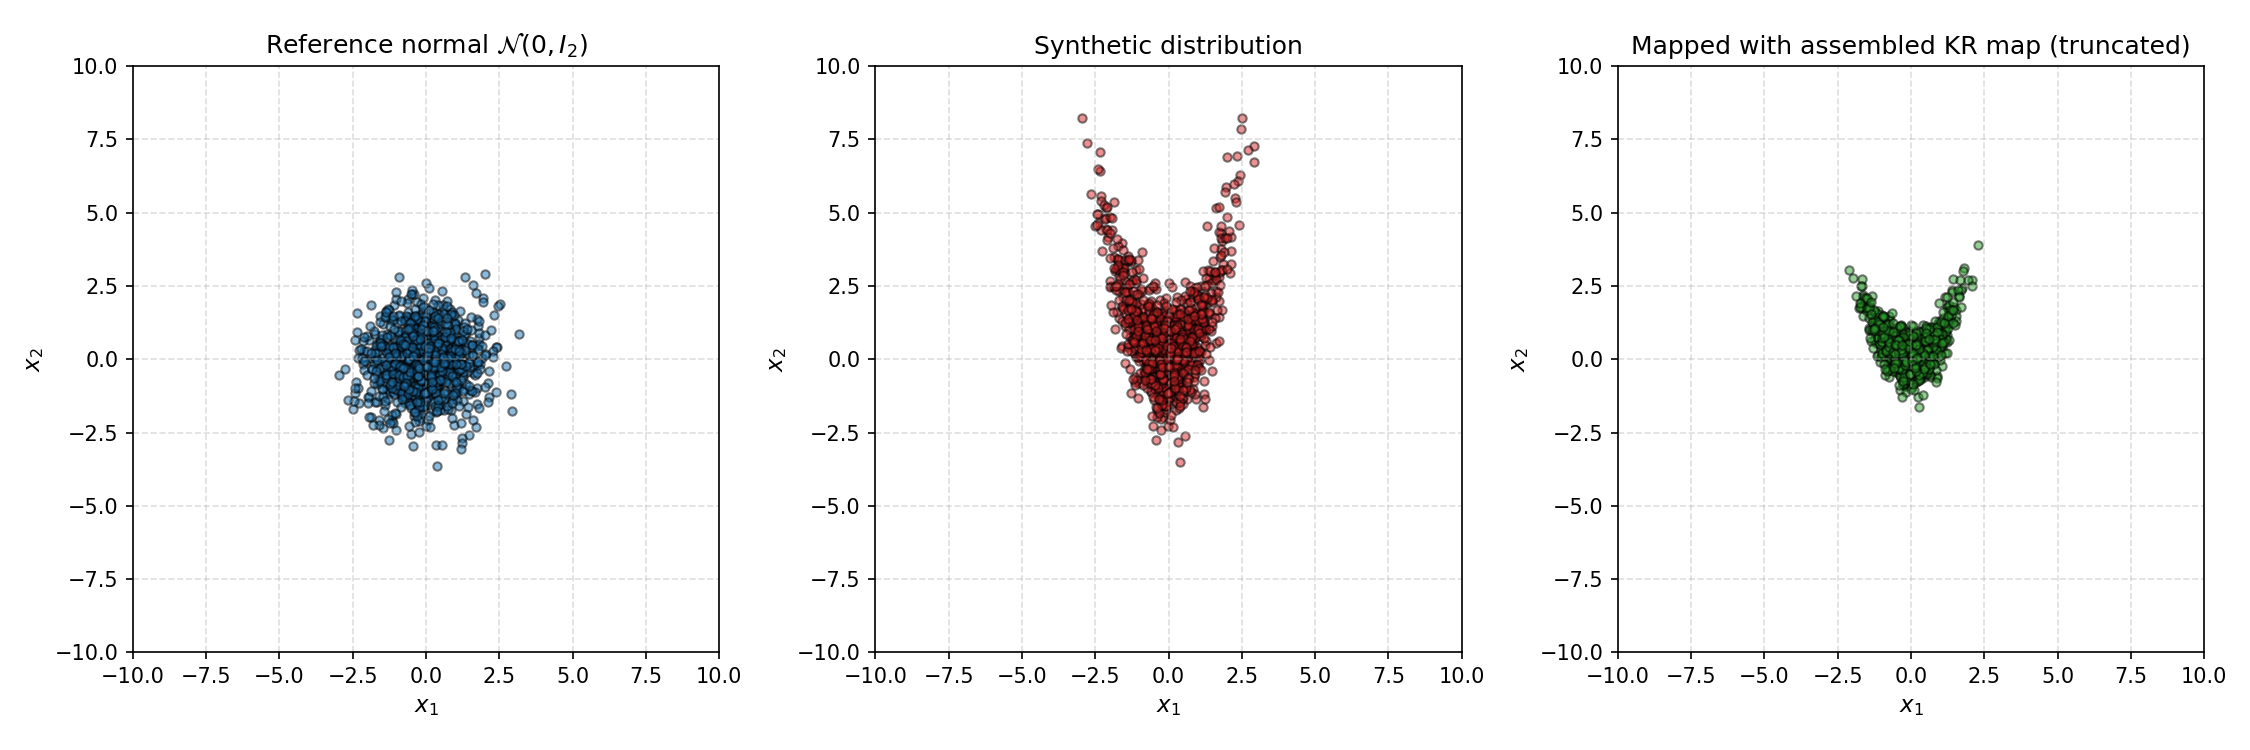
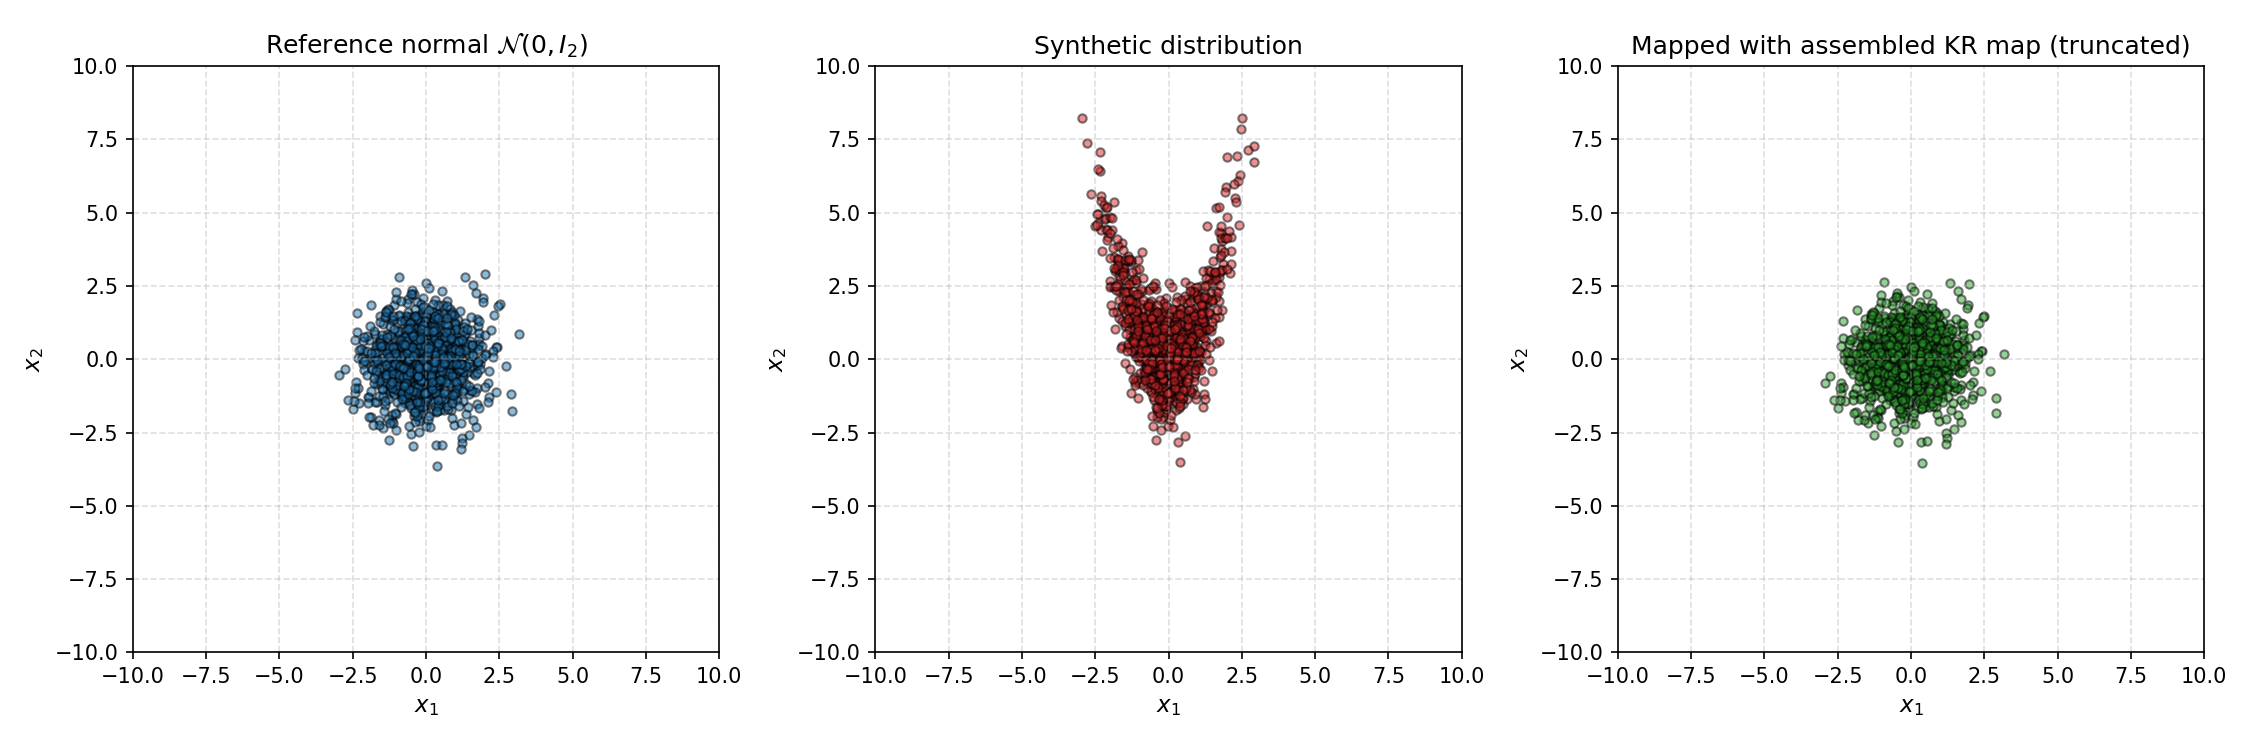
revised assemble test

Changed region(s): [[0.8089, 0.368, 0.9022, 0.6133]]

diff --git a/tests/assemble_map.py b/tests/assemble_map.py
@@ -111,21 +111,10 @@ if __name__ == "__main__":
 		2: np.array([-1.0, 1.0, 0.0, 0.0, 0.0, 0.0, -1.0, 0.0, 0.0]),
 	}
 
-	# TRUNCATED_WEIGHTS = {
-	# 	1: np.array([3.56913064e-06, 7.14601383e-01, -2.66425150e-06]),
-	# 	2: np.array([
-	# 		2.11429379e-06,
-	# 		4.55947604e-01,
-	# 		-6.72377179e-03,
-	# 		-1.27633283e-06,
-	# 		4.39760107e-06,
-	# 		-3.42189765e-02,
-	# 	]),
-	# }
-	
+
 	# This is what an ideal run would return:
 	TRUNCATED_WEIGHTS = {
-		1: np.array([3.56913064e-06, 9.14601383e-01, -2.66425150e-06]),
+		1: np.array([3.56913064e-06, 9.94601383e-01, -2.66425150e-06]),
 		2: np.array([
 			-9.11429379e-01,
 			9.55947604e-01,
@@ -136,7 +125,13 @@ if __name__ == "__main__":
 		]),
 	}
 	
-
+	#TRUNCATED_WEIGHTS = {
+	#	1: np.array([3.56913064e-06, 9.14601383e-01, -2.66425150e-06]),
+	#	# These come from a 1 day run that failed
+	#	2: np.array([-0.02243113,  0.9587302,  -0.0748354,   0.         ,  0.         , -0.03317945]),}
+	
+	
+	
 	PLOT_OUTPUT_DIR = os.path.join(
 		os.path.dirname(__file__), "..", "results", "map_reconstruction"
 	)
